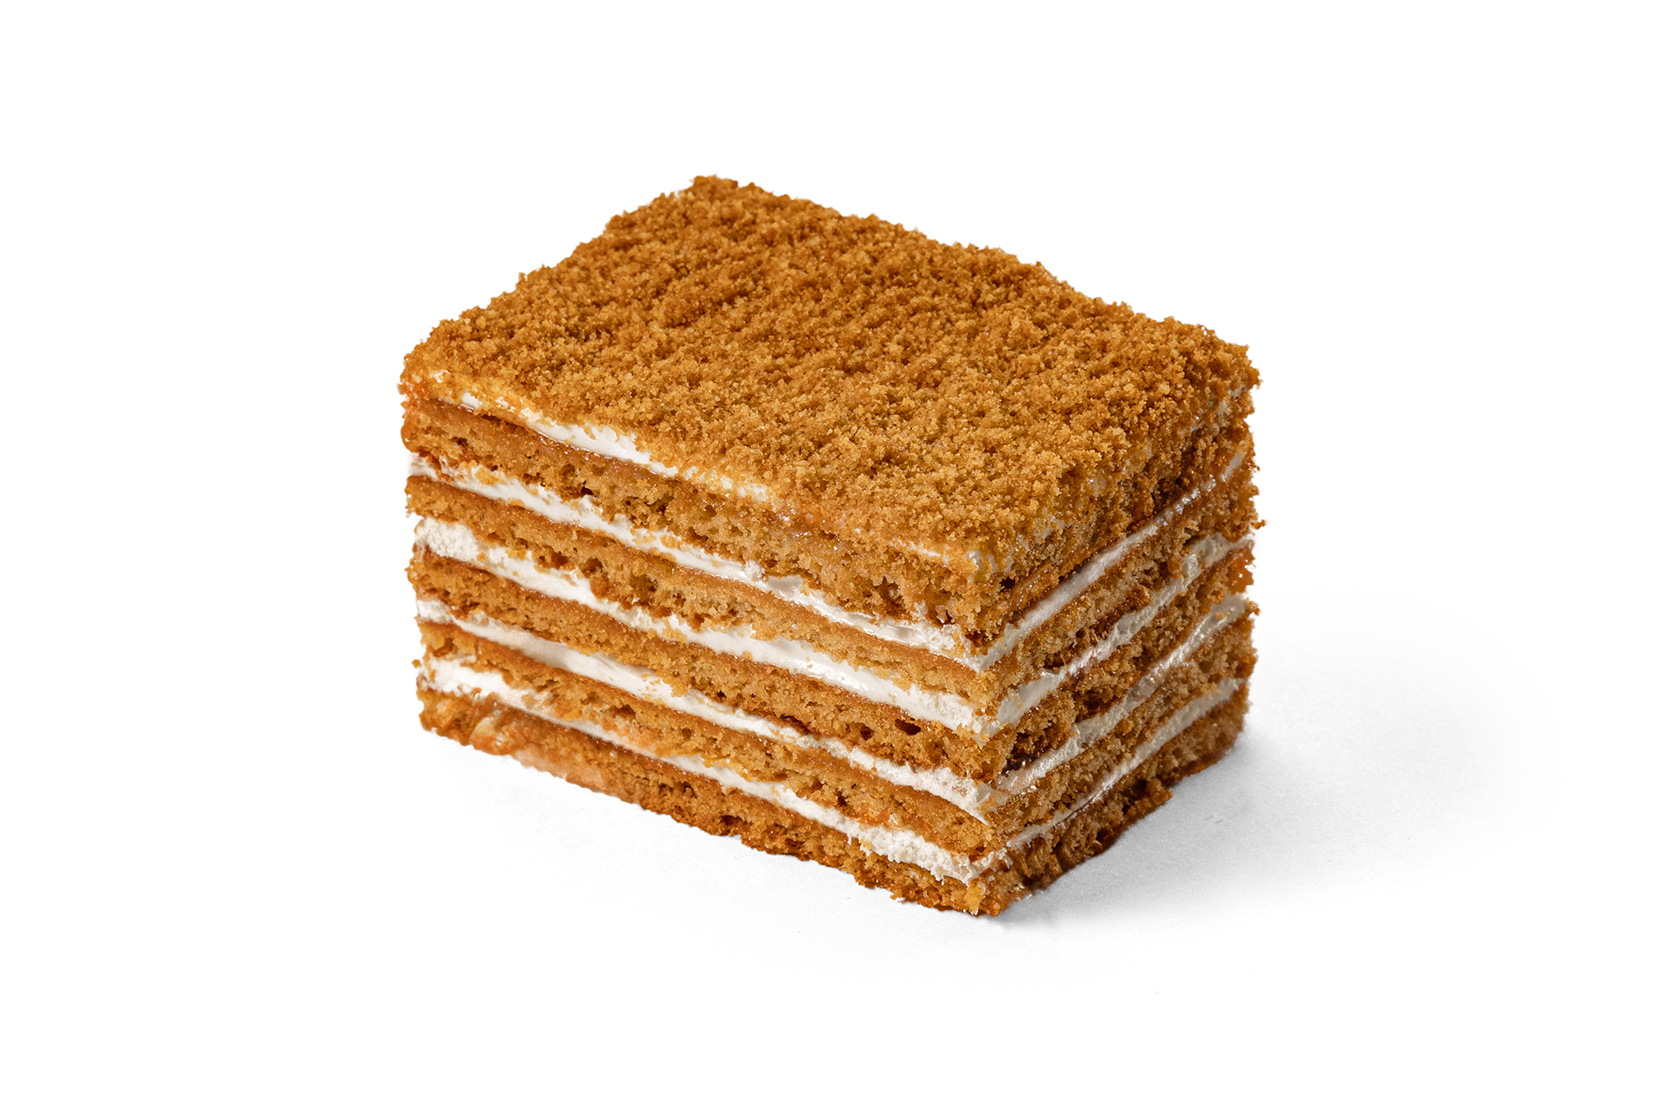
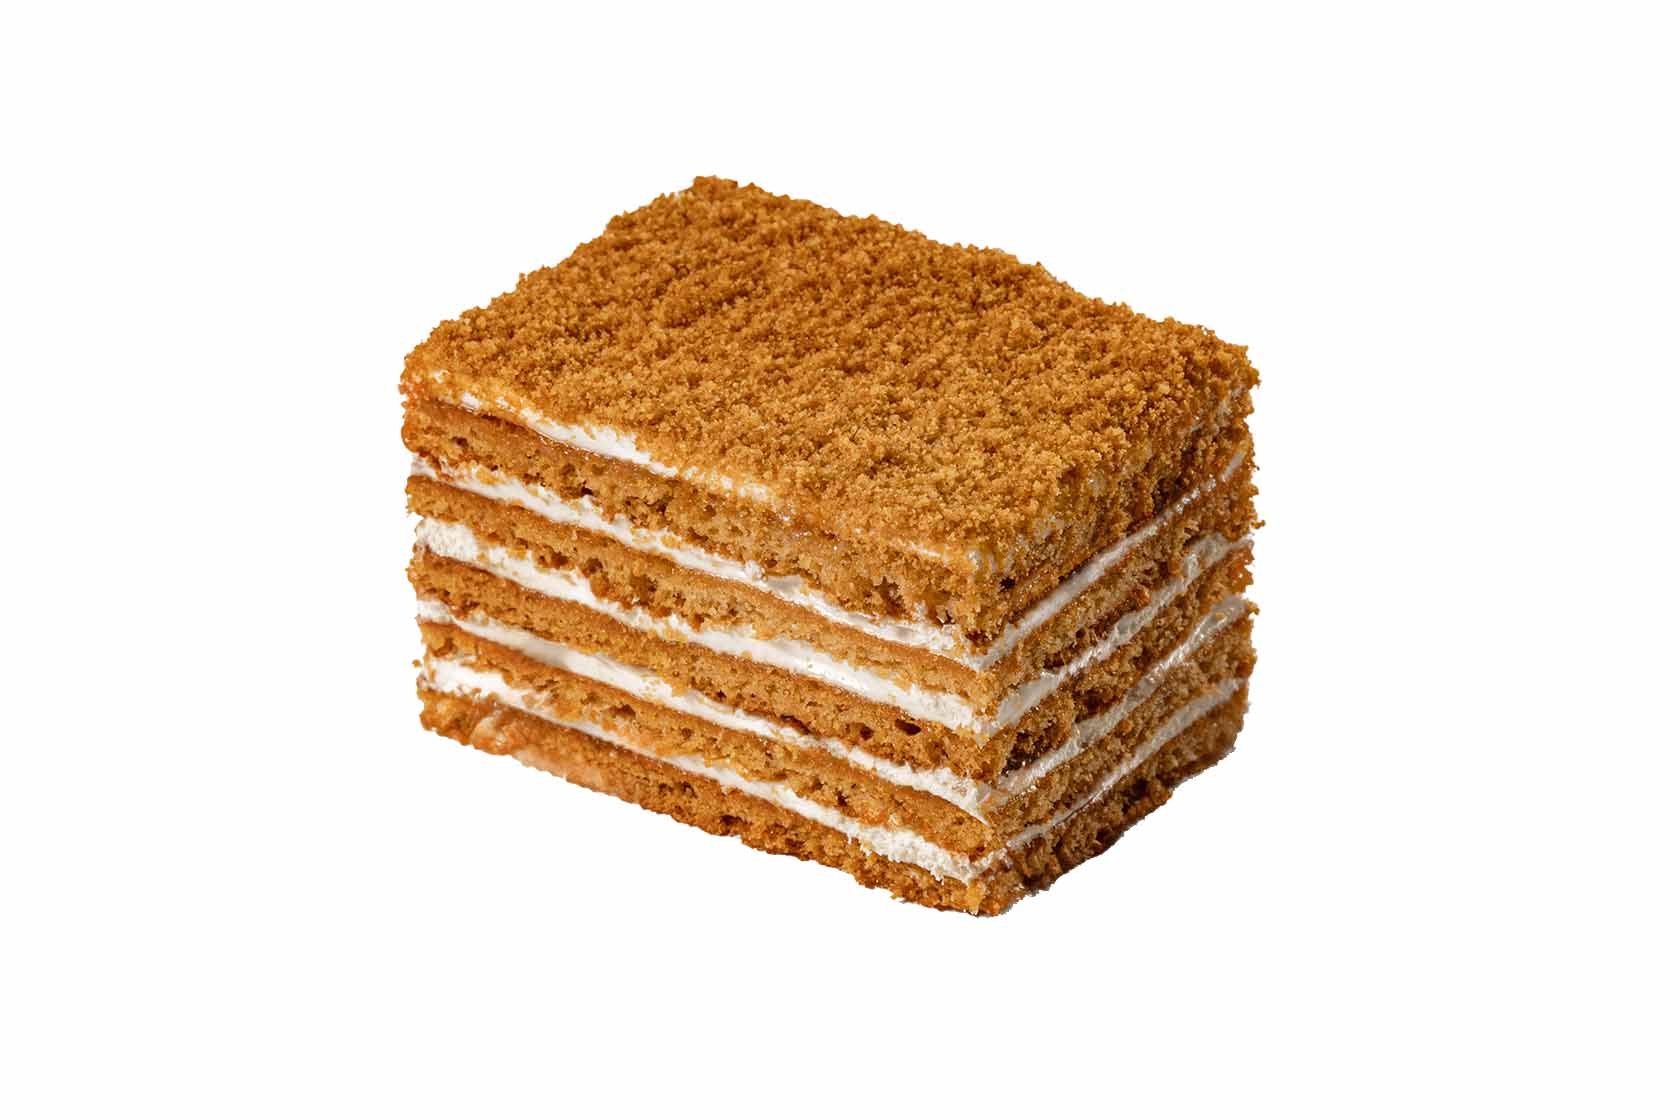
2025_03_20

diff --git a/src/index.html b/src/index.html
@@ -84,7 +84,7 @@
     <div class="container-fluid">
         <div id="cover_mob" class="d-sm-none">
                 <div class="row">
-                    <div id="fon_mob"><img id="idCover" src="images/icons/desert_1500.png" alt="">
+                    <div id="fon_mob"><img id="idCover" src="images/icons/desert_1500.jpg" alt="">
                           <div id="str1_mob"><span>СДЕЛАЙ СВОЮ</span></div>
                           <div id="str2_mob"><span>ЖИЗНЬ ВКУСНЕЕ</span></div>
                           <div id="str3_mob"><span>ВМЕСТЕ С НАМИ</span></div>                     
@@ -119,10 +119,10 @@
                 <div class="slider_mob_line">
                     <img class="img_slide" src="images/eclair_komlevo.png" alt="">
                     <img class="img_slide" src="images/imbirn_pryanik.png" alt="">
-                    <img class="img_slide" src="images/segment.png" alt="">
-                    <img class="img_slide" src="images/sochnik.png" alt="">
-                    <img class="img_slide" src="images/trub.png" alt="">
-                    <img class="img_slide" src="images/zefir.png" alt="">
+                    <img class="img_slide" src="images/segment.jpg" alt="">
+                    <img class="img_slide" src="images/sochnik.jpg" alt="">
+                    <img class="img_slide" src="images/trub.jpg" alt="">
+                    <img class="img_slide" src="images/zefir.jpg" alt="">
                 </div>
                 <div class="pointsAreaSize">
                     <span class="point"></span>

diff --git a/src/eclair/catalogEclair.js b/src/eclair/catalogEclair.js
@@ -5,7 +5,7 @@ const eclairCatalog = [
     img: 'images/catalog/eclairs/eclair_slivki.png',
     price: 10,
     nameDesc: 'Эклеры со сливками',
-    img2: 'images/catalog/eclairs/deteil/eclairSliv2.png',
+    img2: 'images/catalog/eclairs/deteil/eclair_komlevo.png',
     description: 'Заварное тесто, начиненное нежнейшей начинкой, заставляет на время забыть обо всем на свете и наслаждаться моментом. Срок годности: не более 10 суток со дня изготовления.',
     massa: 1.7,
     

diff --git a/src/category/category.js b/src/category/category.js
@@ -3,7 +3,7 @@ const CATALOG = [
     id: 'a1',
     link: 'eclair.html',
     name: 'Эклеры',
-    img: 'images/category/eclair_komlevo.png',
+    img: 'images/category/eclair_komlevo.jpg',
 
   },
   {
@@ -17,13 +17,13 @@ const CATALOG = [
     id: 'a3',
     link: '#',
     name: 'Изделия с творожной начинкой',
-    img: 'images/category/sochnik.png', 
+    img: 'images/category/sochnik.jpg', 
   },
   {
     id: 'a4',
     link: '#',
     name: 'Зефир',
-    img: 'images/category/zefir.png', 
+    img: 'images/category/zefir.jpg', 
   },
   {
     id: 'a5',

diff --git a/src/category/products.js b/src/category/products.js
@@ -2,7 +2,7 @@ let box_main_mob = document.querySelector('.box_main_mob');
 let div = document.querySelector('#products');
 let span__catalog__category = document.createElement('span');
 span__catalog__category.classList.add('catalog__category');
-span__catalog__category.textContent = 'Категории товара:';
+span__catalog__category.textContent = 'Каталог >> Категории товара:';
 div.appendChild(span__catalog__category);
 let divCategory = document.createElement('div');
 divCategory.classList.add('divCategory');

diff --git a/src/eclair/productsEclair.css b/src/eclair/productsEclair.css
@@ -158,10 +158,14 @@
 }
 #section2 {
   margin-top: 20px;
+  font-family: Arsenal;
+  font-size: 16px;
   
 }
 #sectionLast {
   margin-bottom: 20px;
+  font-family: Arsenal;
+  font-size: 16px;
 }
 
   

diff --git a/src/category/products.css b/src/category/products.css
@@ -43,7 +43,7 @@ body {
   margin-top: 15px;
 }
 .catalog__category {
-  font-size: 20px;
+  font-size: 16px;
   padding: 20px;
   
 }
